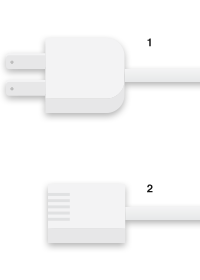
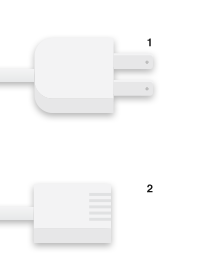
ui tweaks

diff --git a/source/css/euclid-main.css b/source/css/euclid-main.css
@@ -22,7 +22,7 @@ a:hover {
 	color: #0099E0;
 	border-bottom: 1px dotted #0099E0;
 }
-
+.no-hover:hover {border-bottom: none; color:#0099E0;}
 .shadowed { 
 	-webkit-box-shadow: 1px 1px 5px 0px #bfbfbf, -1px 0px 5px 0px #bfbfbf; 
 	-moz-box-shadow: 1px 1px 5px 0px #bfbfbf, -1px 0px 5px 0px #bfbfbf; 
@@ -32,7 +32,7 @@ a:hover {
 .light-text { color: #FFF; }
 .large-text { text-align: center; font-size: 30px; font-family: georgia, serif; }
 */
-.btn, .btn:hover { cursor: pointer; text-shadow: none; border-radius: 0; -webkit-appearance: none; float: left; padding: .5em; -webkit-appearance: none; -webkit-box-shadow: none; border-width: 0 0 .5em 0; border-style: solid; border-color: #EEE; background-color: #DDD; margin-top: 30px;}
+.btn, .btn:hover { cursor: pointer; text-shadow: none; border-radius: 0; font-size: 14px; -webkit-appearance: none; float: left; padding: .5em 2em; -webkit-appearance: none; -webkit-box-shadow: none; border-width: 0 0 .5em 0; border-style: solid; border-color: #EEE; background-color: #DDD; margin-top: 30px;}
 .tab-link.selected, .tab-link.selected:hover, .btn.dark-btn, .btn.dark-btn:hover { color: #FFF; background-color: #0099E0; border-color: #65c1eb; }
 .arrow-btn:before { 
 	content: ''; 
@@ -59,6 +59,10 @@ a:hover {
 }
 
 .hide { display: none; }
+
+.scramble-email { unicode-bidi: bidi-override; direction: rtl; } /* As an extra bit of spam control, write email addresses backwards then display them reverse. */
+
+.floating-img { float: left; margin-right: 10px;}
 
 
 
@@ -101,12 +105,13 @@ nav li 	{ list-style: none; }
 }
 
 /* subnav */
-#subnav { position: absolute; float: left; padding-top: 50px; }
-#subnav ul { padding: 0 10px 10px 10px; margin: 0; background-color: rgba(255, 255, 255, .9); }
-#subnav li { border-bottom: 1px dotted #AAA; font-weight: 400; font-size: 13px; line-height: 25px; color: #AAA; }
+#subnav { position: absolute; float: left; padding-top: 50px; width: 160px; }
+#subnav ul { padding: 5px 15px 15px 15px; margin: 0; background-color: rgba(255, 255, 255, .9); }
+#subnav li { border-bottom: 1px dotted #AAA; font-weight: 400; font-size: 13px; padding: 5px 0; color: #AAA; }
 #subnav li a { color: #AAA; }
 #subnav li.selected a { color: #0099E0; }
 #subnav li a:hover { border-bottom: none; }
+#subnav li:last-of-type { border-bottom: none; padding-bottom: 0; }
 
 /* Solution Tabs */
 #tabs, #tabs ul, #tabs li { list-style: none; padding: 0; }
@@ -127,12 +132,12 @@ nav li 	{ list-style: none; }
 
 #easy-wires {
 	position: absolute;
-	right: 0;
+	left: 0;
 	width: 50%;
 }
 #easy-wires img, #easy-wires-cord { height: 280px; }
-#easy-wires img { float: left; }
-#easy-wires-cord { background: transparent url(../img/IT_cord.png); margin-left: 200px;}
+#easy-wires img { float: right; }
+#easy-wires-cord { background: transparent url(../img/IT_cord.png); margin-right: 200px;}
 
 
 
@@ -148,6 +153,7 @@ nav li 	{ list-style: none; }
 	padding-top: 50px;
 	padding-bottom: 100px;
 }
+.small-bottom-pad { padding-bottom: 50px !important; }
 .primary-content {
 	background-image: url(../img/content-bg.png);
 }
@@ -161,14 +167,14 @@ nav li 	{ list-style: none; }
 	background-image:      -o-linear-gradient(top, #FFFFFF, #F2F2F2);
 }
 .featured-content-dark { background-color: #F2F2F2; }
-.subsection { padding-top: 100px; border-bottom: 1px solid #b2e0f6; overflow: hidden; }
+.subsection { padding-top: 50px; border-bottom: 1px solid #b2e0f6; overflow: hidden; }
 .subsection:last-of-type { border-bottom: none; } 
 
 #about-content { float: right; } /* Special case - new a sub container to float next to subnavbar. Maybe find a better way to do this? subcontainer class? */
 
 /*section { margin-bottom: 100px; }*/
 
-.sectionlabel {margin: 0; }
+.sectionlabel { margin: 0 0 3px 0; }
 
 h1, h2, .content-list-item-name {
 	margin-top: 0;
@@ -191,6 +197,7 @@ h2 	{
 h3, .large-text 	{ 
 	font-size: 22px;
 	line-height: 28px;
+	font-weight: 100;
 }
 h3 { color: #0099E0; }
 h4 {
@@ -241,6 +248,9 @@ p:last-of-type { margin-bottom: 0; }
 h1.separated { margin-bottom: 50px; }
 .indent { padding-left: 20px;}
 
+.magnify { margin: 10px; }
+
+
 /* 	
 ==============================================================================
 	
@@ -267,14 +277,14 @@ footer { padding: 40px 0; }
 	<LABEL><SPAN>BLHHH</SPAN><INPUT></LABEL> */
 form.defForm.contactForm {  }
 .defForm.contactForm label, .defForm.contactForm label .input-title, .input-separator { height: 40px; vertical-align: middle; line-height: 40px; }
-.defForm.contactForm input, .defForm.contactForm select, .Euclid-Styled-Dropdown, .defForm.contactForm textarea { line-height: 25px; margin: 5px 0;}
-.defForm.contactForm input, .Euclid-Styled-Dropdown, .defForm.contactForm textarea, .defForm.contactForm textarea:focus { border:1px solid #DBDBDB; }
+.defForm.contactForm input, .defForm.contactForm select, .Euclid-Styled-Dropdown, .defForm.contactForm textarea { line-height: 36px; margin: 10px 0 5px 0;}
+.defForm.contactForm input, .Euclid-Styled-Dropdown, .defForm.contactForm textarea, .defForm.contactForm textarea:focus { border:1px solid #BBB; padding-left: 10px; box-shadow: inset 0px 11px 8px -10px #CCC;}
 .defForm.contactForm label .input-title, .input-separator, .defForm.contactForm label input, .defForm.contactForm label .input { display: table-cell; }
 .defForm.contactForm label { display: table; background-color: #FFF; width: 100%; border-bottom: 1px solid #b2e0f6; }
 .defForm.contactForm label:last-of-type { border: none; }
 .defForm.contactForm label input { width: 100%; }
 .defForm.contactForm label input:focus { outline: none; }
-.defForm.contactForm label > .input-separator { border-left: 1px solid #CCC; width: 10px; }
+.defForm.contactForm label > .input-separator { margin-top: 5px; border-left: 1px solid #BBB;  width: 10px; }
 #required-legend { margin-bottom: 10px; font-size: 11px; font-weight: bold; text-transform: uppercase; }
 /* Because of the size attribute, making an input expand to fill container isn't possible without decent hackery. Instead just set the widths manually :( */
 #name .input-title, #email .input-title, #phone .input-title, #title .input-title, #company_name .input-title { width: 95px; }
@@ -285,7 +295,12 @@ form.defForm.contactForm {  }
 #comments, #comments.empty:focus, #comments.empty:focus { width: 430px; padding: 10px; height: 267px; resize: none; z-index: 10; background-color: #FFF; outline: none; }
 #comments.empty { background-color: transparent; }
 #comments_col { background-color: #FFF; }
-#comments_col:before { content: 'Message*';display: block; color: #CCC; padding: 10px 0 0 10px; height: 20px; margin-bottom: -30px; z-index: 1; }
+#comments_col:before { content: 'Message*';display: block; color: #CCC; padding: 10px 0 0 10px; height: 20px;line-height: 40px; margin-bottom: -30px; z-index: 1; }
+#macaddr, #macaddr.empty:focus, #macaddr.empty:focus { width: 448px; resize: none; z-index: 10; background-color: #FFF; outline: none; }
+#macaddr.empty { background-color: transparent; }
+#macaddr_hldr { background-color: #FFF; }
+#macaddr_hldr:before { content: 'MAC Address';display: block; color: #CCC; padding: 10px 0 0 10px; height: 20px; margin-bottom: -30px; z-index: 1; }
+
 .invalid { background-color: red; }
 .invalid-msg { position: absolute; text-shadow: none; padding: 0 10px; color: #FFF; background-color: red; opacity: .65; }
 .invalid-msg:before { position: absolute; display: block; content: ''; width: 0;  height: 0; margin-left: -20px; margin-top: 10px; border-top: 10px solid transparent; border-bottom: 10px solid transparent;  border-right:10px solid red; }
@@ -402,14 +417,16 @@ a.resumator-hide-details { display: inline !important; margin-left: 20px !import
 .col1 	{ width: 50px; }	.col1.merge-right, .subcontainer1 { width: 80px; }
 .col-third-of-10 { width: 236px; }
 .col-half-of-9 { width: 330px; }
-.merge-down { margin-bottom: -170px; }
+.merge-down { margin-bottom: -170px; margin-top: -20px; }
 .merge-down-follower { padding-top: 25px; }
 .bump-up { margin-top: -35px; }
 .bump-left { margin-left: -75px; padding-right: 75px; }
 .no-pad { padding: 0; }
 .pad-top { padding-top: 25px; }
 .no-bottom-pad { padding-bottom: 0 !important; }
+.no-bottom-marg { margin-bottom: 0 !important; }
 .no-top-pad { padding-top: 0 !important; }
+.no-top-marg { margin-top: 0 !important; }
 .pull-right { float: right !important; }
 .fill-container { width: 100%; }
 
